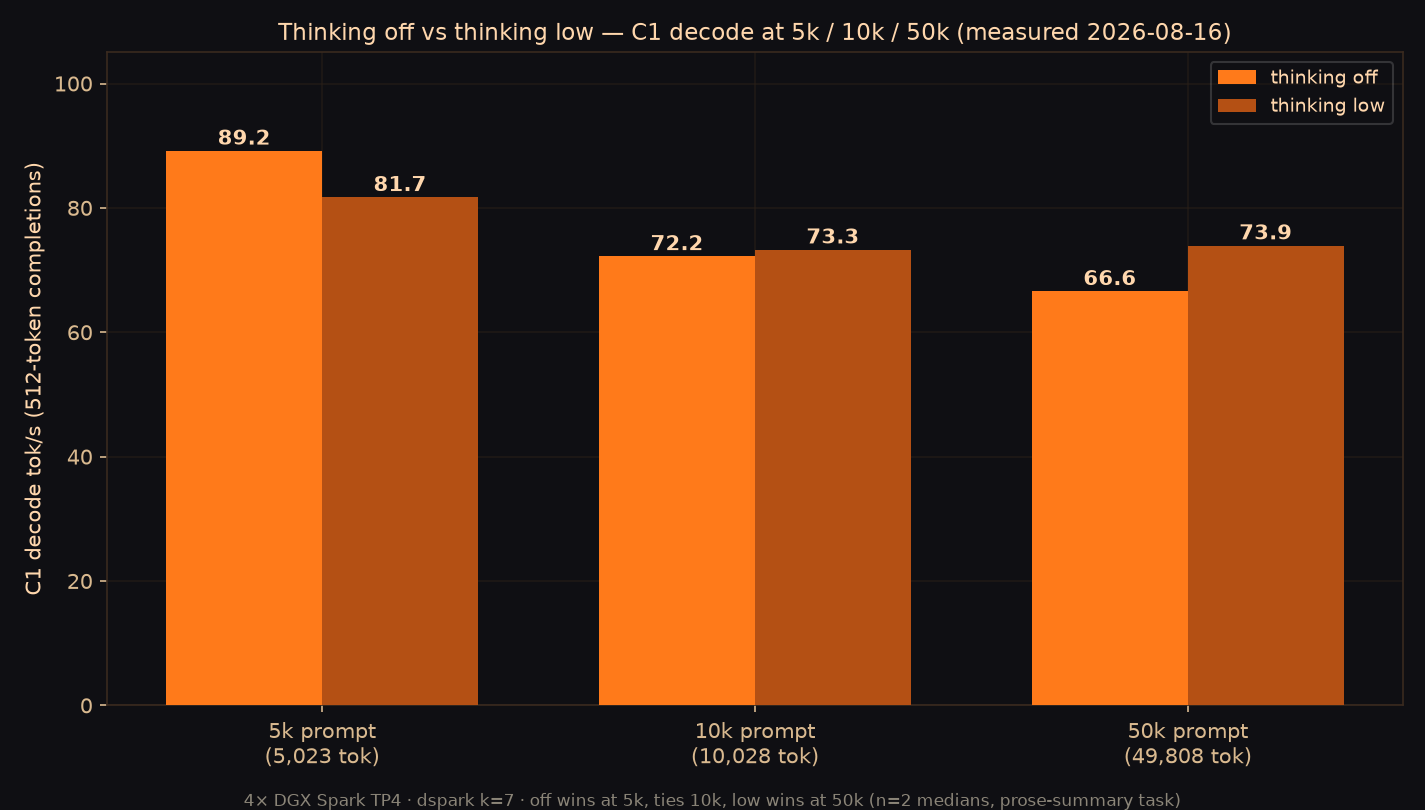
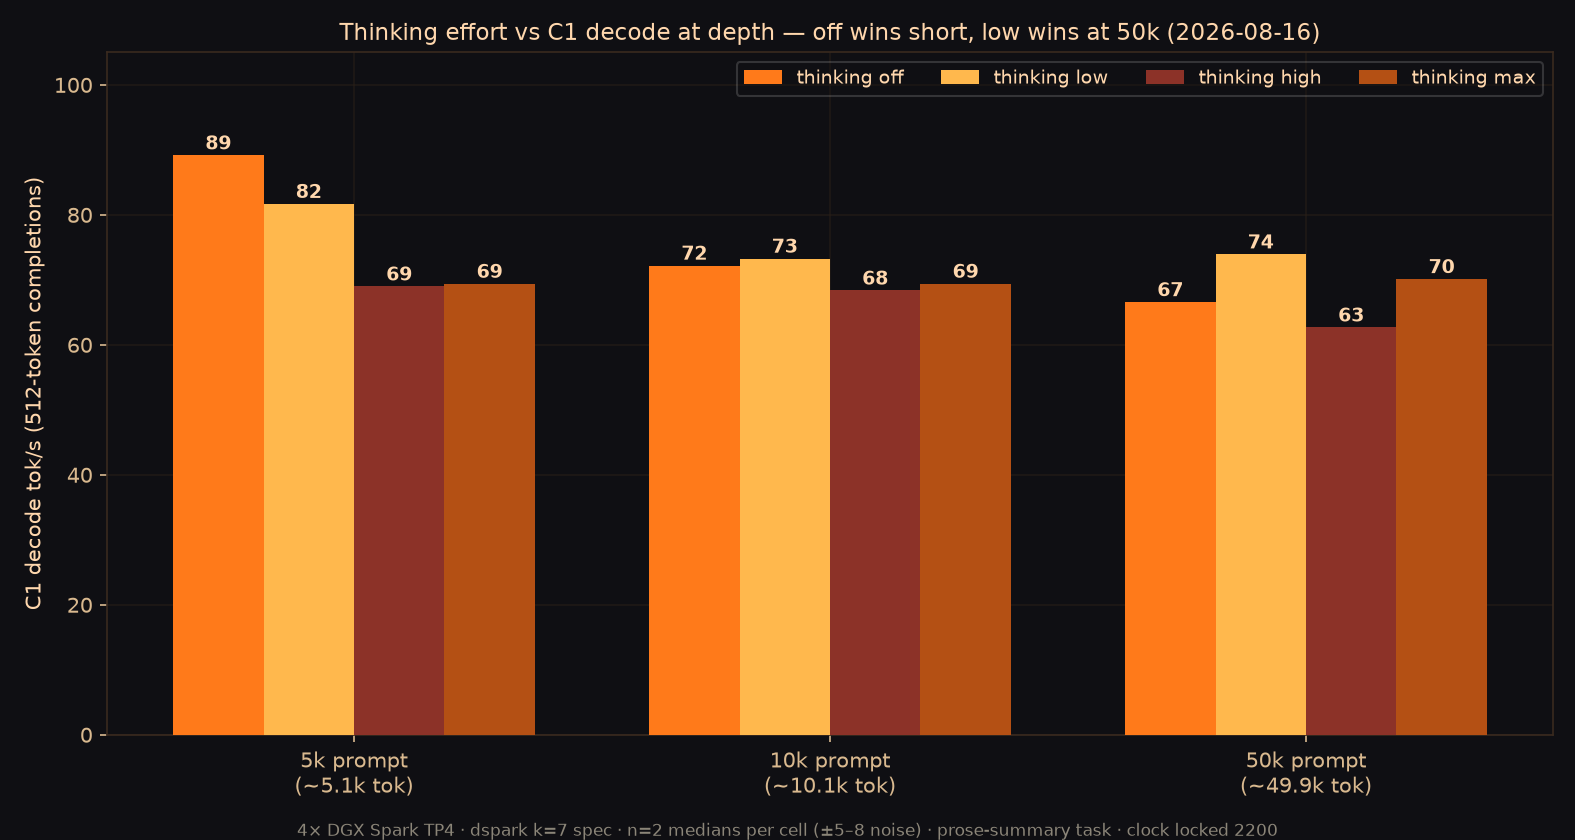
Full thinking-effort curve (off/low/high/max) at 5k/10k/50k — low is a local optimum at depth

Changed region(s): [[0.0, 0.1543, 0.9881, 1.0], [0.0309, 0.0309, 0.9881, 0.1543]]

diff --git a/README.md b/README.md
@@ -383,14 +383,16 @@ python3 -m unittest discover -s catchup -v
 
 ![thinking off vs low](results/thinking-off-vs-low-2026-08-16.png)
 
-| prompt depth | thinking off | thinking low |
-|---|---:|---:|
-| 5k (5,023 tok) | **89.2** | 81.7 |
-| 10k (10,028 tok) | 72.2 | **73.3** |
-| 50k (49,808 tok) | 66.6 | **73.9** |
+| prompt depth | off | low | high | max |
+|---|---:|---:|---:|---:|
+| 5k (~5.1k tok) | **89.2** | 81.7 | 69.0 | 69.4 |
+| 10k (~10.1k tok) | 72.2 | **73.3** | 68.4 | 69.4 |
+| 50k (~49.9k tok) | 66.6 | **73.9** | 62.7 | 70.1 |
 
 C1 client-wall decode tok/s, 512-token completions, temp 0, prose-summary
 task, n=2 medians per cell (±5–8 noise), cluster idle, clock locked 2200.
-Measured 2026-08-16 with `scripts/bench-depth.py --thinking off|low`.
-Off wins at 5k, ties at 10k, and thinking-low pulls ahead at 50k — depth
-shifts the crossover, so quote thinking state with any decode number.
+Measured 2026-08-16 with `scripts/bench-depth.py --thinking off|low|high|max`
+(the template's effort vocabulary — there is no "medium").
+Off dominates at 5k, everything ties at 10k, and at 50k thinking-**low** is
+fastest while **high** is slowest — effort is not monotonic. Quote the
+thinking state with any decode number.
